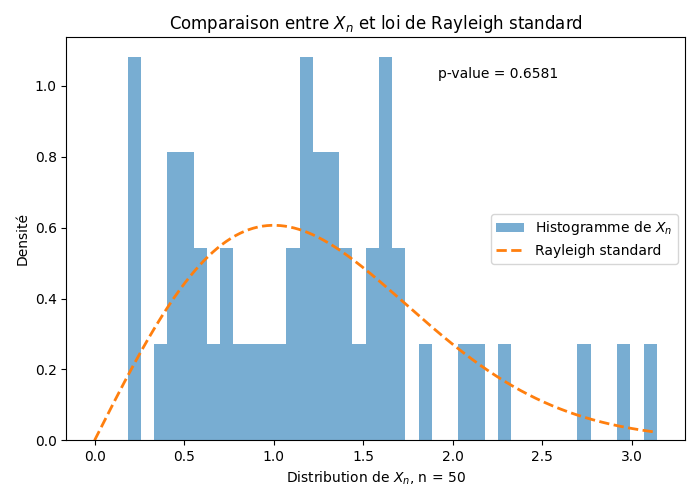
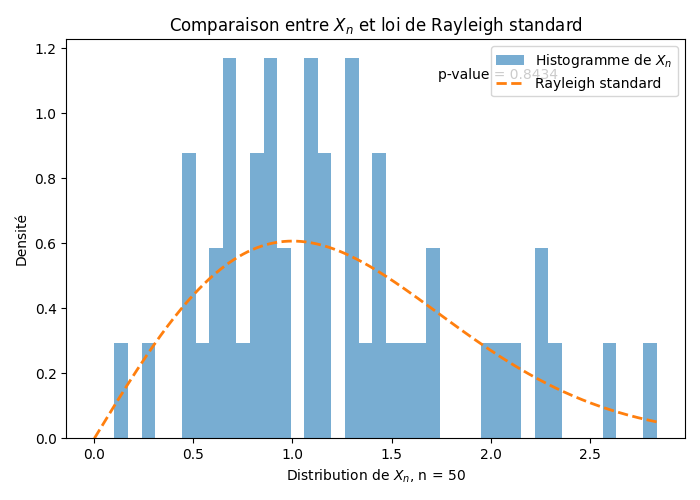
added all results

diff --git a/launch_test.py b/launch_test.py
@@ -10,8 +10,8 @@ from tqdm import tqdm
 import pickle
 import os
 
-n_samples = 1000
-n_elements = 20000
+n_samples = 50
+n_elements = 25000
 
 def generate_pass_count(_):
     random_list = create_random_list(n_elements)
